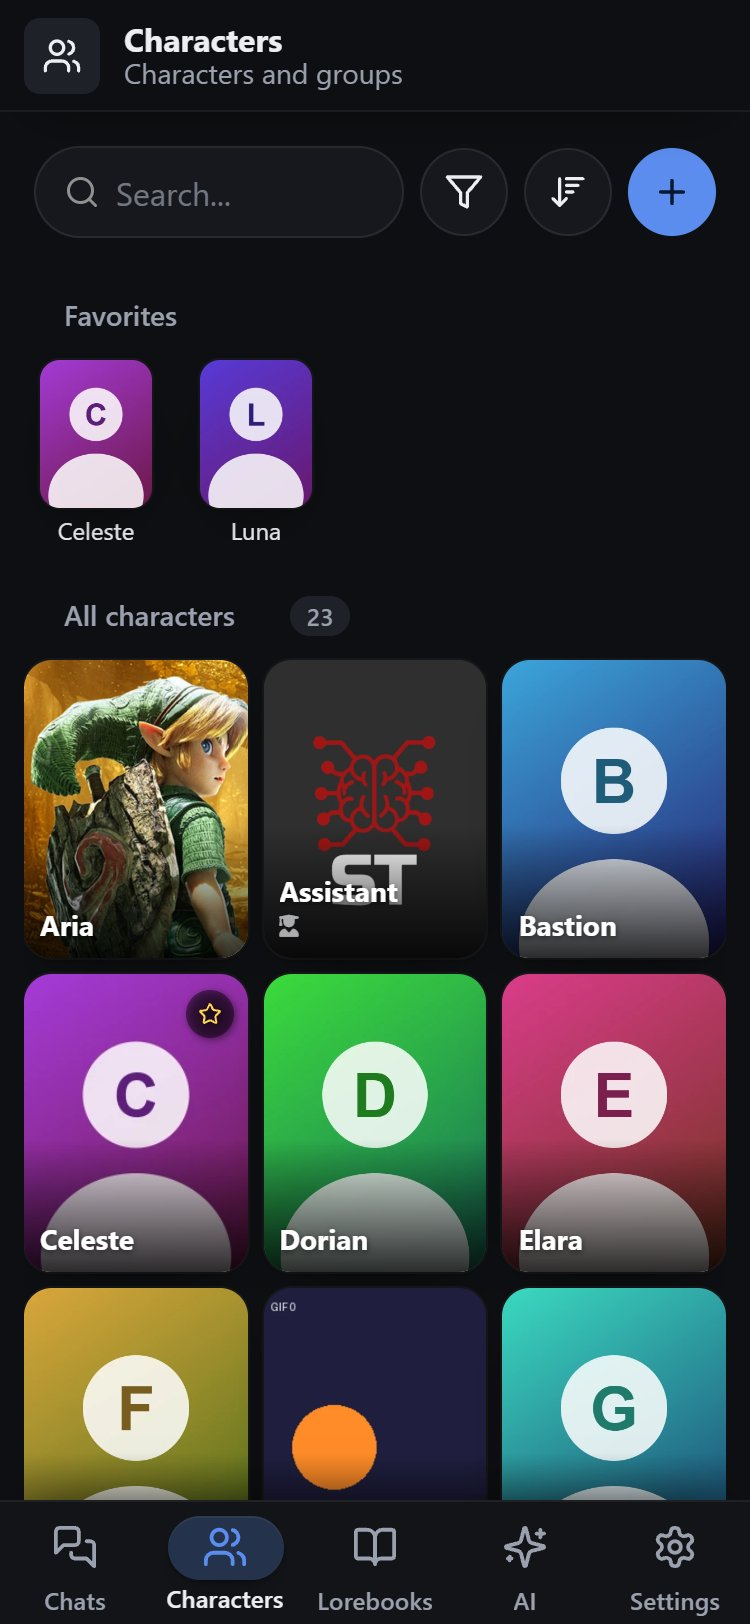
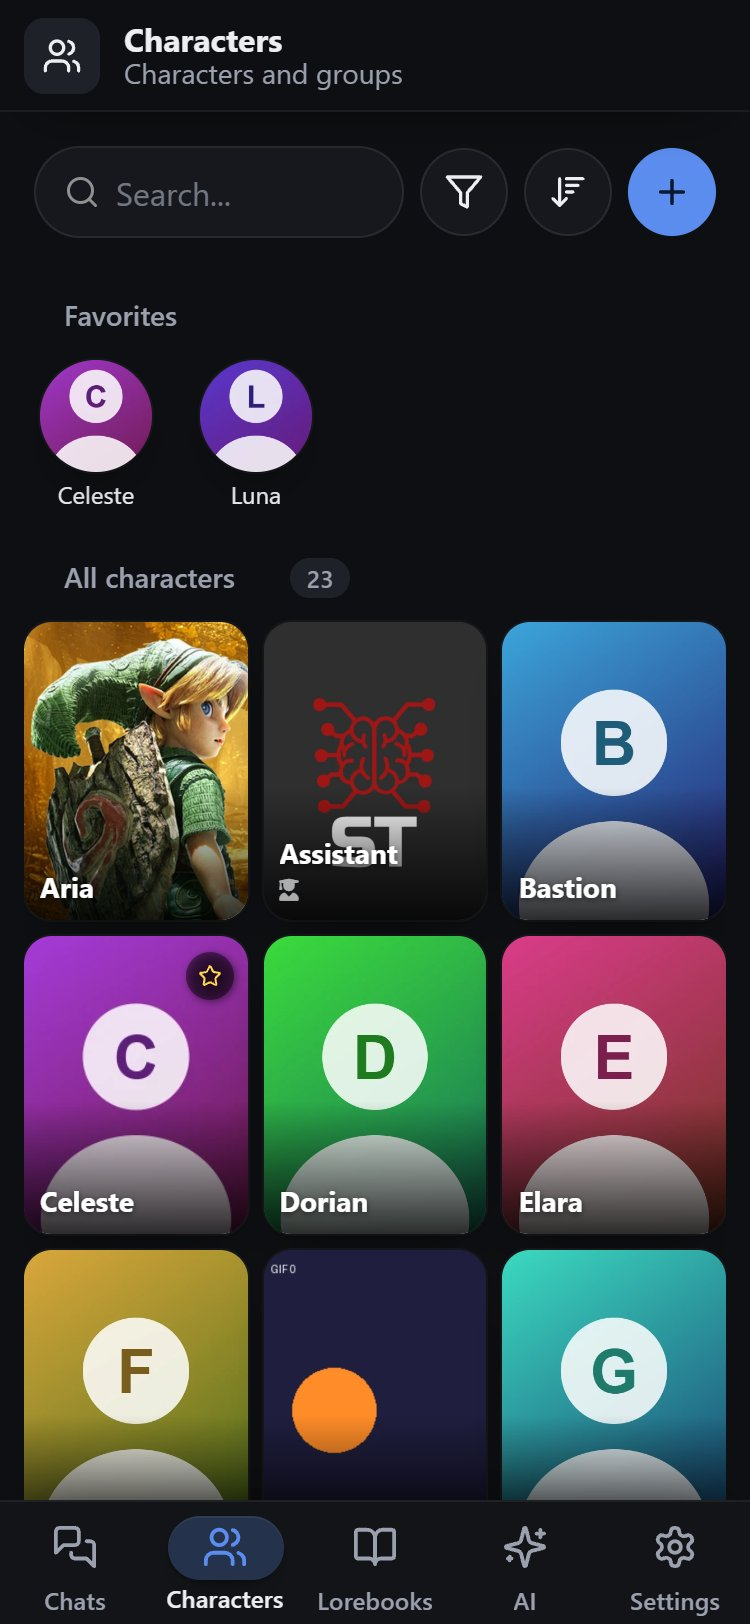
characters: the list no longer scrolls sideways
The Favorites row reached 12px past the list's edges (like the Chats page's picks), and
the list is SillyTavern's scroll box, so the whole list could be dragged sideways on a
phone and on a computer. The row now stays inside the list, and the list only scrolls up
and down. e2e/characters.mjs checks it on both layouts.

diff --git a/styles/st/characters.css b/styles/st/characters.css
@@ -792,10 +792,17 @@ html.pt-charpage .pt-char-top .pt-list-header {
     margin: var(--pt-space-2) var(--pt-space-1) 0;
 }
 
+/* The Favorites row stays inside the list: reaching past its edges (as the Chats page's picks do) made the
+   whole list scroll sideways, because the list is SillyTavern's scroll box. */
 html.pt-charpage .pt-char-top .pt-quick-picks {
-    margin: 0 calc(-1 * var(--pt-space-3));
-    padding: var(--pt-space-1) var(--pt-space-3) var(--pt-space-2);
-    scroll-padding-inline: var(--pt-space-3);
+    margin: 0;
+    padding: var(--pt-space-1) 0 var(--pt-space-2);
+    scroll-padding-inline: 0;
+}
+
+/* The list only ever scrolls up and down, whatever another extension or a long name puts in it. */
+html.pt-charpage #rm_print_characters_block {
+    overflow-x: hidden;
 }
 
 html.pt-charpage .pt-char-count {
